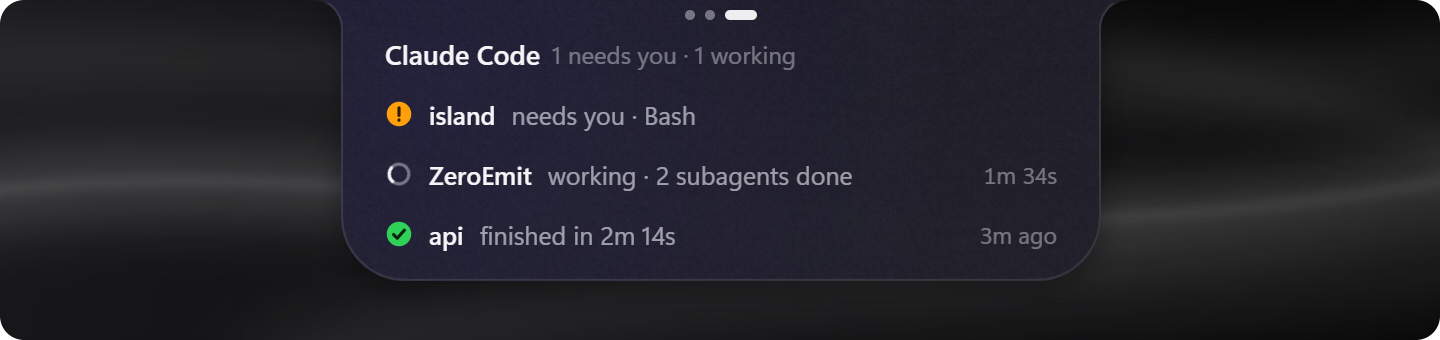
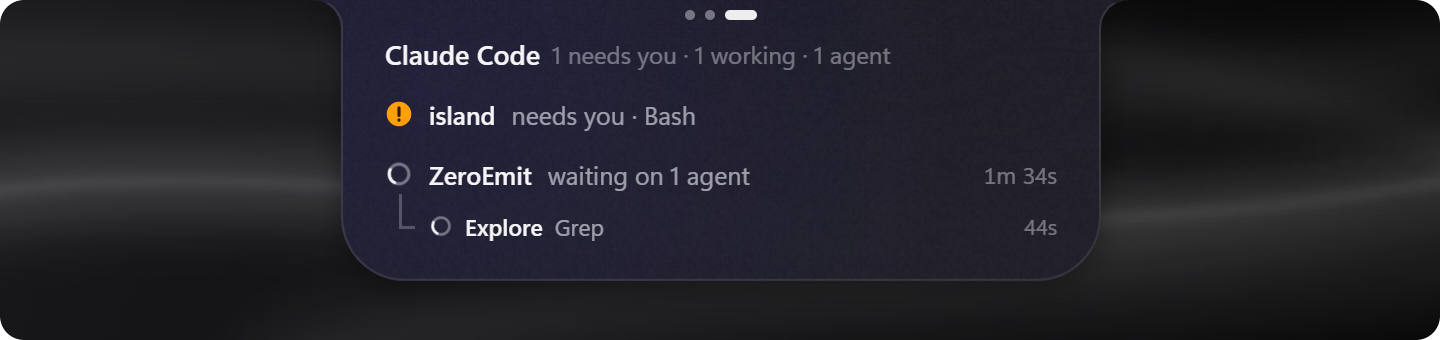
:)

diff --git a/scripts/readme-images.js b/scripts/readme-images.js
@@ -82,8 +82,11 @@ if (process.argv.includes('join')) {
   };
   const sessions = [
     { id: 'a', label: 'island', state: 'needs', needsKind: 'permission', tool: 'Bash', turnStart: now - 50000, durationMs: 0, endedAt: 0, lastEventAt: now - 3000, agentsUsed: 0, agents: [], canJump: true },
-    { id: 'b', label: 'ZeroEmit', state: 'working', needsKind: null, tool: '', turnStart: now - 91000, durationMs: 0, endedAt: 0, lastEventAt: now - 2000, agentsUsed: 2, agents: [], canJump: true },
-    { id: 'c', label: 'api', state: 'finished', needsKind: null, tool: '', turnStart: 0, durationMs: 134000, endedAt: now - 180000, lastEventAt: 0, agentsUsed: 0, agents: [], canJump: true },
+    { id: 'b', label: 'ZeroEmit', state: 'waiting', needsKind: null, tool: '', turnStart: now - 91000, durationMs: 0, endedAt: 0, lastEventAt: now - 2000, agentsUsed: 2, canJump: true, agents: [
+      { id: 'b1', label: 'Explore', type: 'Explore', state: 'running', tool: 'Grep', askTool: '', startedAt: now - 41000, endedAt: 0, lastEventAt: now - 2000 },
+      // done a while ago: folded into the count, so the page fits without scrolling
+      { id: 'b2', label: 'Plan', type: 'Plan', state: 'done', tool: 'Read', askTool: '', startedAt: now - 80000, endedAt: now - 60000, lastEventAt: now - 60000 },
+    ] },
   ];
   // Claude Code is off by default: its page and dot only in its own scenes.
   const claudeOn = scene === 'claude' || peek;

diff --git a/README.md b/README.md
@@ -8,7 +8,7 @@
 
 [![Latest release](https://img.shields.io/github/v/release/yatinannam/island?style=flat-square&label=release&color=2b2b30)](https://github.com/yatinannam/island/releases/latest) ![Windows 10 and 11](https://img.shields.io/badge/Windows-10%20%7C%2011-2b2b30?style=flat-square) [![MIT license](https://img.shields.io/github/license/yatinannam/island?style=flat-square&color=2b2b30)](LICENSE)
 
-[**Download**](https://github.com/yatinannam/island/releases/latest) &nbsp;·&nbsp; [Features](#features) &nbsp;·&nbsp; [Install](#install) &nbsp;·&nbsp; [Usage](#usage) &nbsp;·&nbsp; [Claude Code](#claude-code) &nbsp;·&nbsp; [Architecture](docs/ARCHITECTURE.md)
+[**Download**](https://github.com/yatinannam/island/releases/latest) &nbsp;·&nbsp; [Features](#features) &nbsp;·&nbsp; [Install](#install) &nbsp;·&nbsp; [Usage](#usage) &nbsp;·&nbsp; [Claude Code](#claude-code) &nbsp;·&nbsp; [Troubleshooting](#troubleshooting) &nbsp;·&nbsp; [Architecture](docs/ARCHITECTURE.md)
 
 <br>
 
@@ -32,9 +32,9 @@ Drop files, folders or images from a browser onto the island, and drag them into
 
 ### Claude Code sessions (optional)
 
-Lists your Claude Code sessions and what each one is doing: working, waiting for your input, or finished. Subagents get their own lines under their session, and a session that is waiting on its subagents finishes once, when they are all done. Off by default; turn it on in Settings.
+Lists your Claude Code sessions and what each one is doing: working, waiting for your input, or finished. Subagents get their own lines under their session, so you can see what each one is up to, and a session that is waiting on its subagents finishes once, when they are all done. Off by default; turn it on in Settings.
 
-<img src="docs/images/claude-code.png" alt="Claude Code page: one session needs input, one is working, one has finished">
+<img src="docs/images/claude-code.png" alt="Claude Code page: one session needs input for Bash; another is waiting on one subagent, Explore, which is running Grep">
 
 When a task finishes or Claude needs your input, the closed island shows a small notification, a *peek*. Click it, or press <kbd>Ctrl</kbd>+<kbd>Alt</kbd>+<kbd>J</kbd>, to switch to that session's terminal.
 
@@ -45,7 +45,8 @@ When a task finishes or Claude needs your input, the closed island shows a small
 - A glass background that blurs the desktop behind the island, like Windows acrylic, tinted by the album art. It follows light and dark mode; a solid background is available in Settings.
 - Spring animations for opening, closing and switching pages. When you swipe, the pages follow your fingers and settle on the next page.
 - Never takes focus from the app you are typing in, lets clicks through while closed, and holds peeks while a fullscreen app or Do Not Disturb is on.
-- Updates itself from GitHub Releases while your PC is idle.
+- Works over fullscreen videos and games too: rest the cursor at the top and the island drops down.
+- Can start with Windows (a switch in Settings), and updates itself from GitHub Releases while your PC is idle.
 - About 1.5% of one CPU core when idle.
 
 ## Install
@@ -63,7 +64,7 @@ Requires Windows 11, or Windows 10 version 2004 or later (x64).
 > Get-FileHash .\island-setup-<version>.exe -Algorithm SHA256
 > ```
 
-Settings and the shelf are stored in `%APPDATA%\island`. Uninstalling from *Settings > Apps* leaves that folder in place.
+Settings, the shelf and a small timing log are stored in `%APPDATA%\island`. Uninstalling from *Settings > Apps* leaves that folder in place.
 
 ## Usage
 
@@ -75,6 +76,7 @@ Settings and the shelf are stored in `%APPDATA%\island`. Uninstalling from *Sett
 | Add files to the shelf | Drop them on the island |
 | Use a file from the shelf | Drag it into any app, or double-click to open it |
 | Pin the island open | <kbd>Ctrl</kbd>+<kbd>Alt</kbd>+<kbd>I</kbd> |
+| Go to the Claude Code session that needs you | Click its peek, or <kbd>Ctrl</kbd>+<kbd>Alt</kbd>+<kbd>J</kbd> |
 | Open Settings | Click the tray icon |
 | Quit | <kbd>Ctrl</kbd>+<kbd>Alt</kbd>+<kbd>Q</kbd>, or right-click the tray icon |
 
@@ -87,7 +89,8 @@ Claude Code support is off by default. To turn it on, open Settings from the tra
 | When a session | The island |
 |---|---|
 | Is working | Lists it on the Claude Code page with the elapsed time |
-| Finishes a task of 10 seconds or more | Shows a green peek for 5 seconds, with a sound |
+| Runs subagents | Lists each one under the session with the tool it is using; the session shows *waiting on N agents* until they are done |
+| Finishes a task of 10 seconds or more | Shows a green peek for 5 seconds, with a sound, once per task, subagents included |
 | Needs your input (a permission prompt or a question) | Shows an amber peek until Claude continues, or you click or dismiss it |
 | Ends | Marks it as closed |
 
@@ -98,14 +101,18 @@ Peeks show only the project folder name, the status and the tool name, never you
 ## Known limitations
 
 - In glass mode the island does not appear in screenshots or screen recordings: it is excluded from screen capture so that it can blur what is behind it. Switch to the solid background to record it.
-- The island's window stays above fullscreen apps, fully transparent and click-through while closed. Exclusive-fullscreen games are not overlaid.
+- The island's window stays above fullscreen apps, fully transparent and click-through while closed, so it can open over them. Exclusive-fullscreen games are not overlaid.
 - Tested on single-display setups only.
 - Apps that don't use Windows' media controls don't appear, and apps that publish no timeline show no progress bar or seeking.
 - Switching to a Claude Code session brings its terminal window forward, but not a specific Windows Terminal tab, and not a terminal running as administrator. Claude Code sends no event when a turn is interrupted with Esc, so that session shows as idle after 2 minutes.
 
+## Troubleshooting
+
+island keeps a small timing log at `%APPDATA%\island\island.log`: when it started, slept, woke and was locked, and any open that was slow. If something glitches, such as the island being slow to drop down or a swipe going the wrong way, press <kbd>Ctrl</kbd>+<kbd>Alt</kbd>+<kbd>D</kbd> right away. That marks the moment in the log, along with your last few seconds of swipes, so the log can be attached to an [issue](https://github.com/yatinannam/island/issues).
+
 ## Privacy
 
-The only network traffic is the update check: every 6 hours the app asks GitHub for the latest release, and downloads the installer when there is a newer one. No identifiers or usage data are sent, and turning off *Update automatically* in Settings stops it. Otherwise the app reads what Windows' media controls publish, captures the screen behind the island only to blur it (in memory, never saved), listens to your speakers' output only to move the equalizer bars, and, with Claude Code switched on, receives session events over a local pipe that only your Windows account can write to. [SECURITY.md](SECURITY.md) lists everything the app accesses and how to report a vulnerability.
+The only network traffic is the update check: every 6 hours the app asks GitHub for the latest release, and downloads the installer when there is a newer one. No identifiers or usage data are sent, and turning off *Update automatically* in Settings stops it. Otherwise the app reads what Windows' media controls publish, captures the screen behind the island only to blur it (in memory, never saved), listens to your speakers' output only to move the equalizer bars, and, with Claude Code switched on, receives session events over a local pipe that only your Windows account can write to. The timing log holds times and states only, no titles, file names or Claude Code text, and stays on your PC. [SECURITY.md](SECURITY.md) lists everything the app accesses and how to report a vulnerability.
 
 ## How it works
 
@@ -130,6 +137,7 @@ cd island
 bun install
 bun run start        # run in development
 bun run dev          # run with the island pinned open
+bun run test         # run the tests
 bun run dist         # build the installer into dist\
 ```
 
